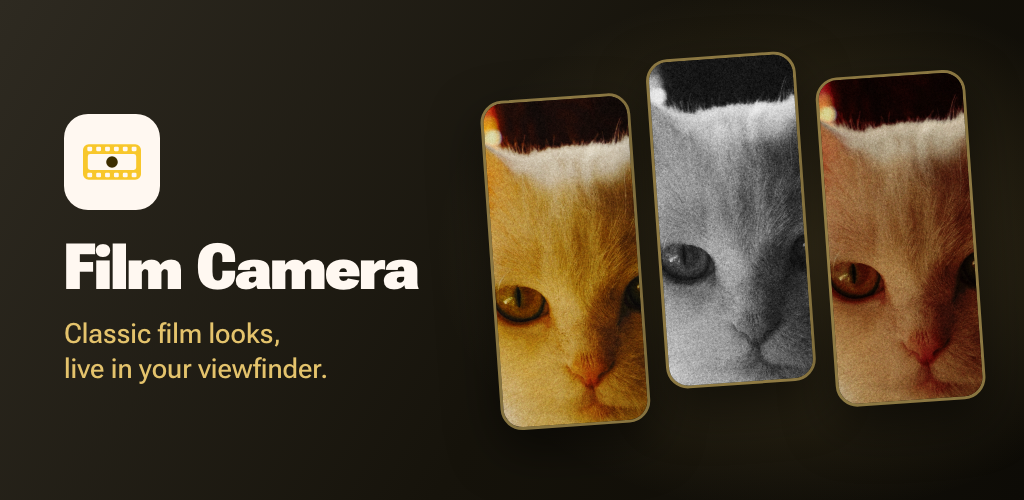
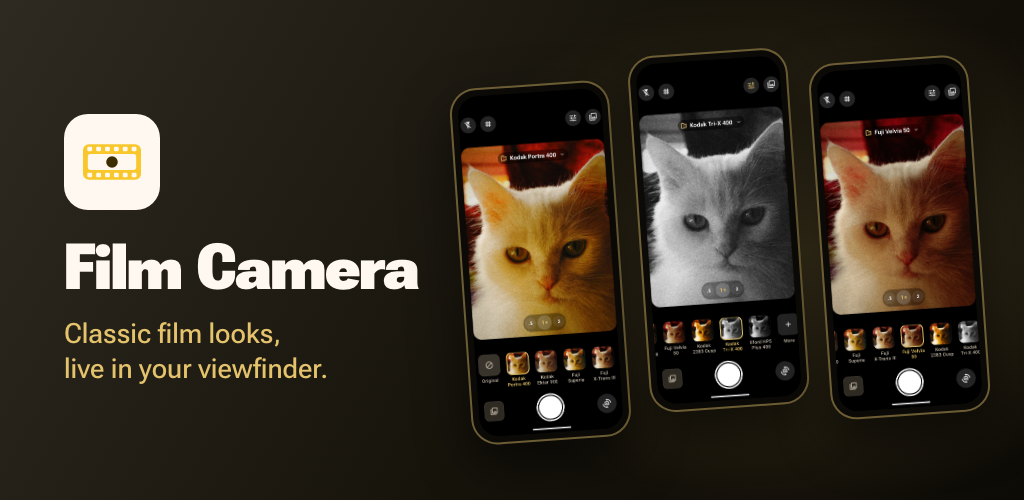
Show whole app screenshots in the feature graphic's phone frames
The tiles cropped a small window out of each screenshot, so they showed a
zoomed-in cat. Frame the full screen at its own aspect ratio instead.

Changed region(s): [[0.4375, 0.09, 0.9688, 0.9]]

diff --git a/scripts/make-play-store-graphics.py b/scripts/make-play-store-graphics.py
@@ -73,11 +73,12 @@ body{{background:radial-gradient(520px 380px at 78% 50%,rgba(228,195,108,.22),rg
 .icon svg{{width:96px;height:96px;display:block}}
 h1{{font-weight:800;font-size:64px;letter-spacing:-1.5px;line-height:1;font-variation-settings:'opsz' 144}}
 p{{font-weight:500;font-size:28px;color:#E4C36C;margin-top:16px;line-height:1.25}}
-.tiles{{position:absolute;right:48px;top:50%;transform:translateY(-50%) rotate(-4deg);display:flex;gap:18px}}
-.tile{{width:150px;height:330px;border-radius:22px;overflow:hidden;border:3px solid rgba(228,195,108,.55);
-  box-shadow:0 20px 50px rgba(0,0,0,.55)}}
-.tile:nth-child(2){{margin-top:-30px}}
-.tile img{{width:360px;margin-left:-105px;margin-top:-178px}}
+.tiles{{position:absolute;right:44px;top:50%;transform:translateY(-50%) rotate(-4deg);display:flex;gap:20px;align-items:center}}
+/* Whole app screenshots in small phone frames, at the screenshots' own aspect ratio. */
+.tile{{width:160px;aspect-ratio:1280/2856;padding:6px;border-radius:26px;background:#0b0a07;
+  border:2px solid rgba(228,195,108,.45);box-shadow:0 20px 50px rgba(0,0,0,.55)}}
+.tile:nth-child(2){{margin-top:-40px}}
+.tile img{{display:block;width:100%;height:100%;object-fit:cover;border-radius:20px}}
 </style></head><body><div class="text"><div class="icon">{icon_svg()}</div><h1>Film Camera</h1>
 <p>Classic film looks,<br>live in your viewfinder.</p></div><div class="tiles">{tiles}</div></body></html>"""
 
